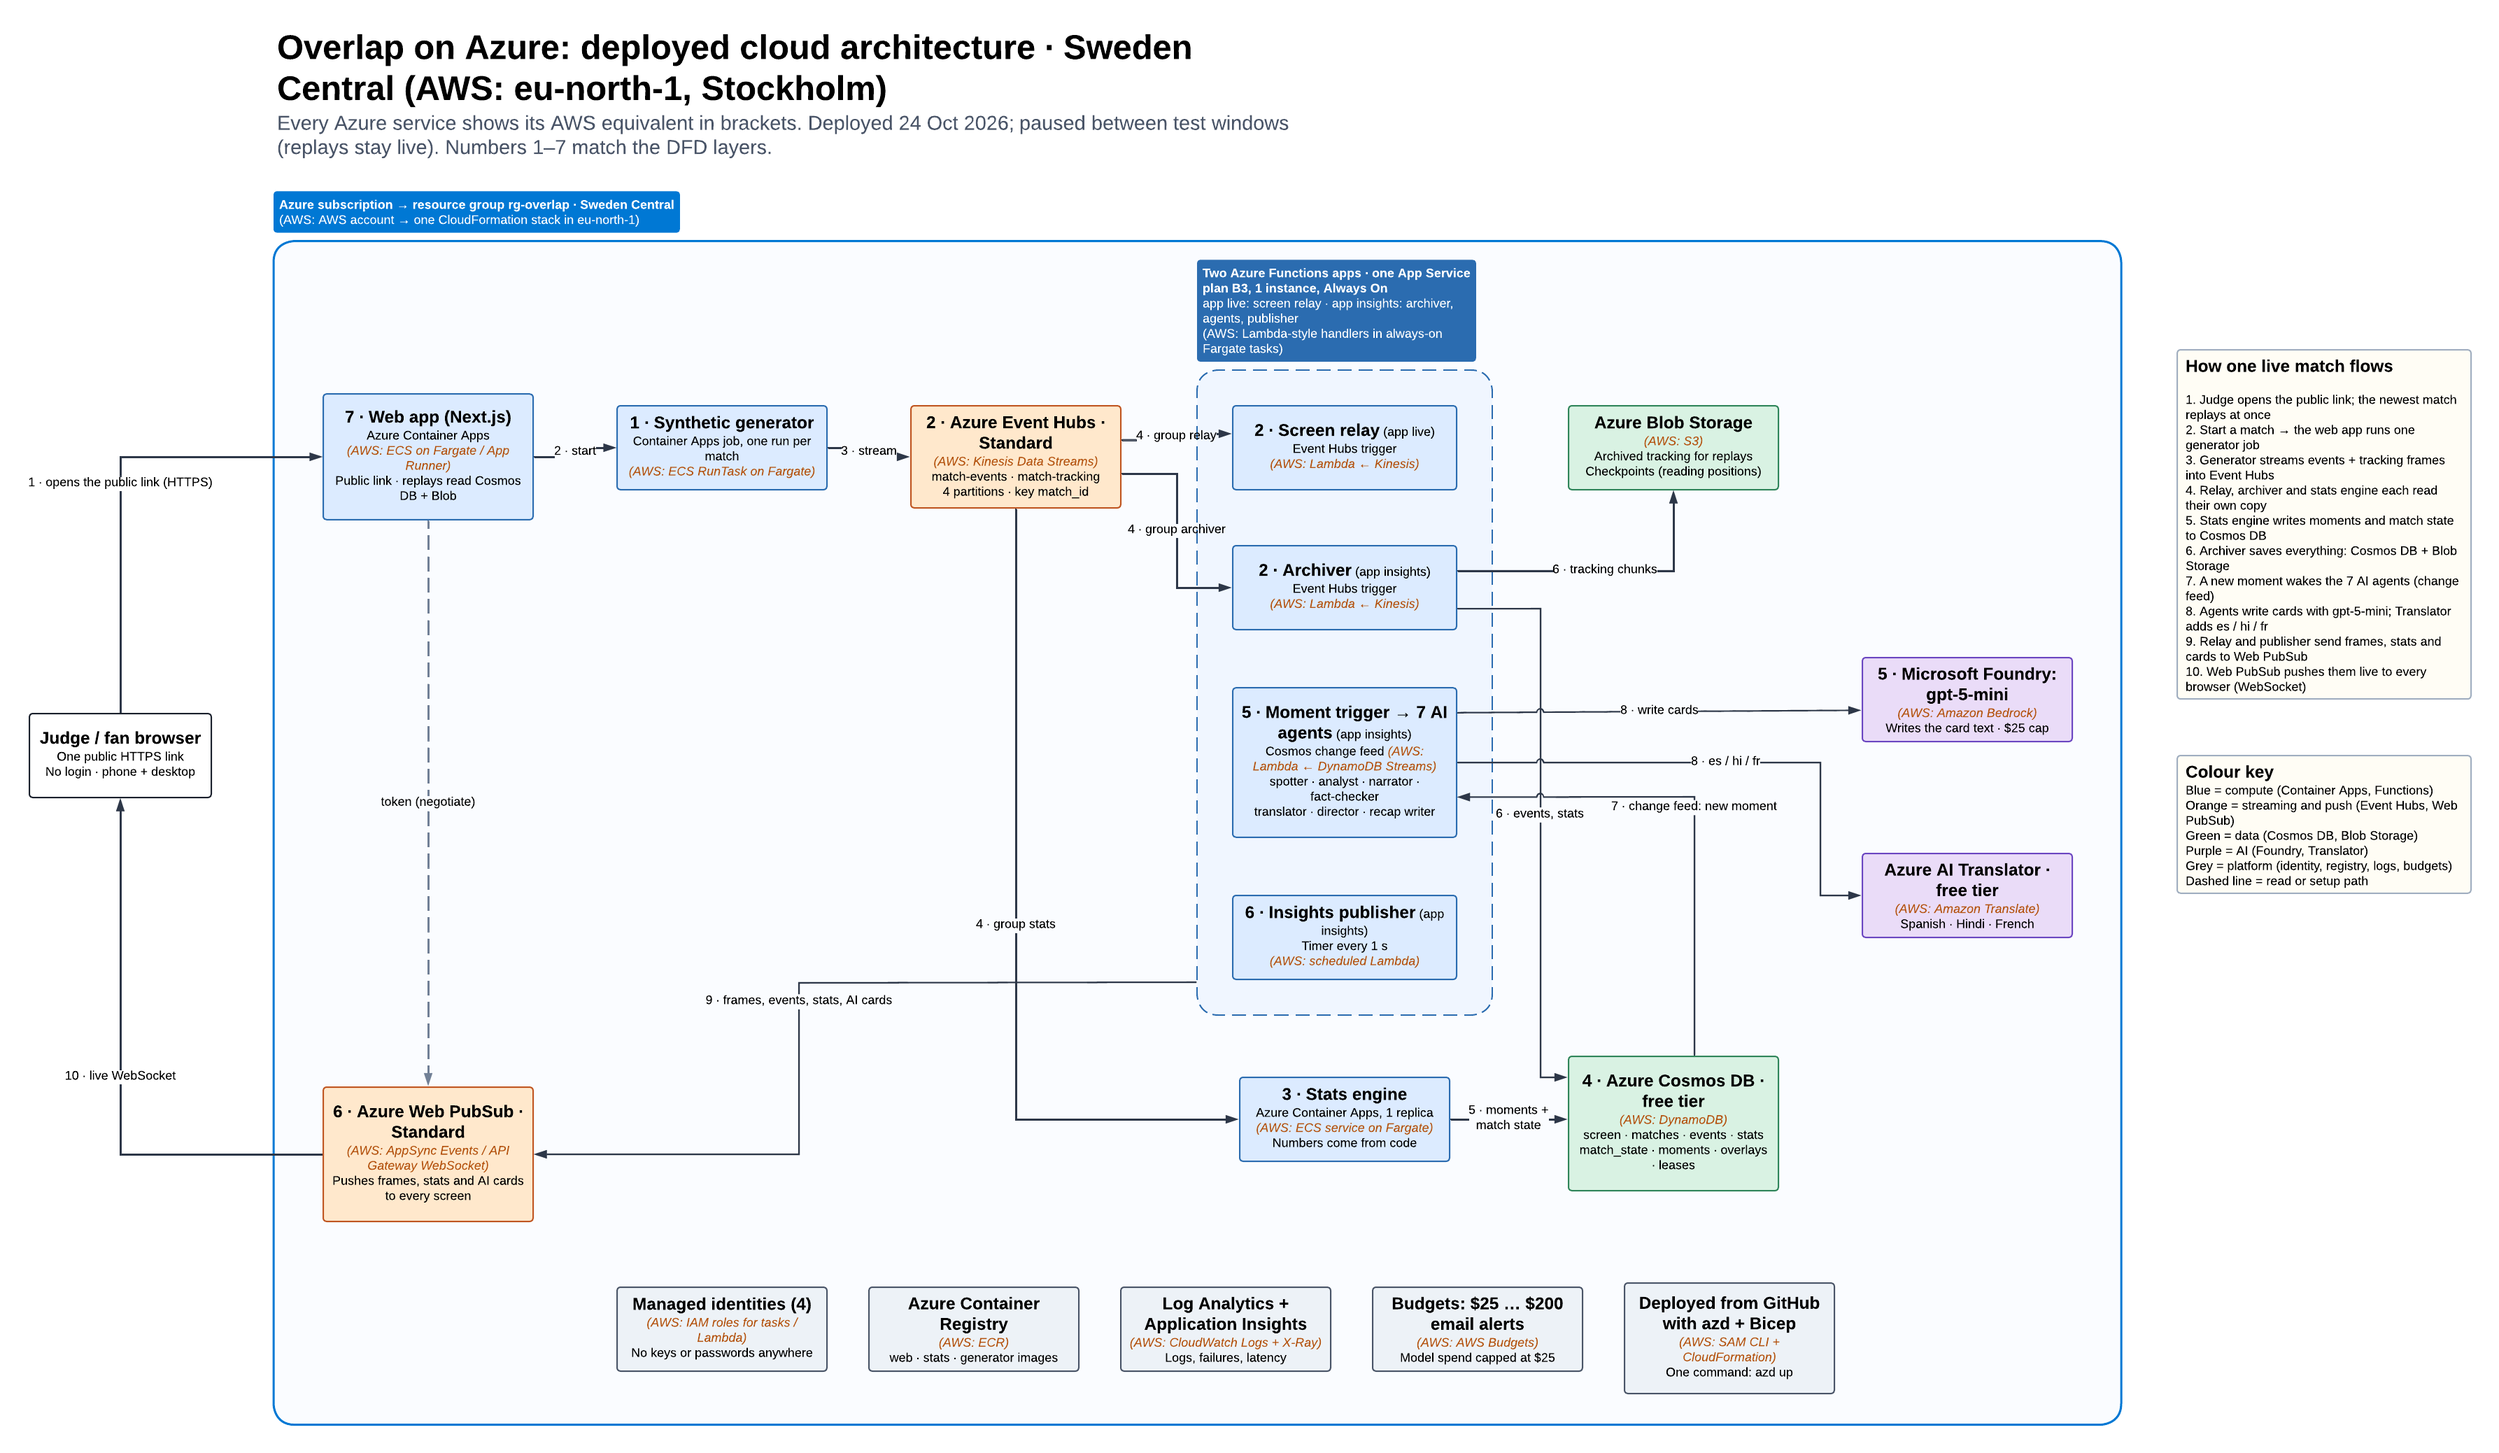
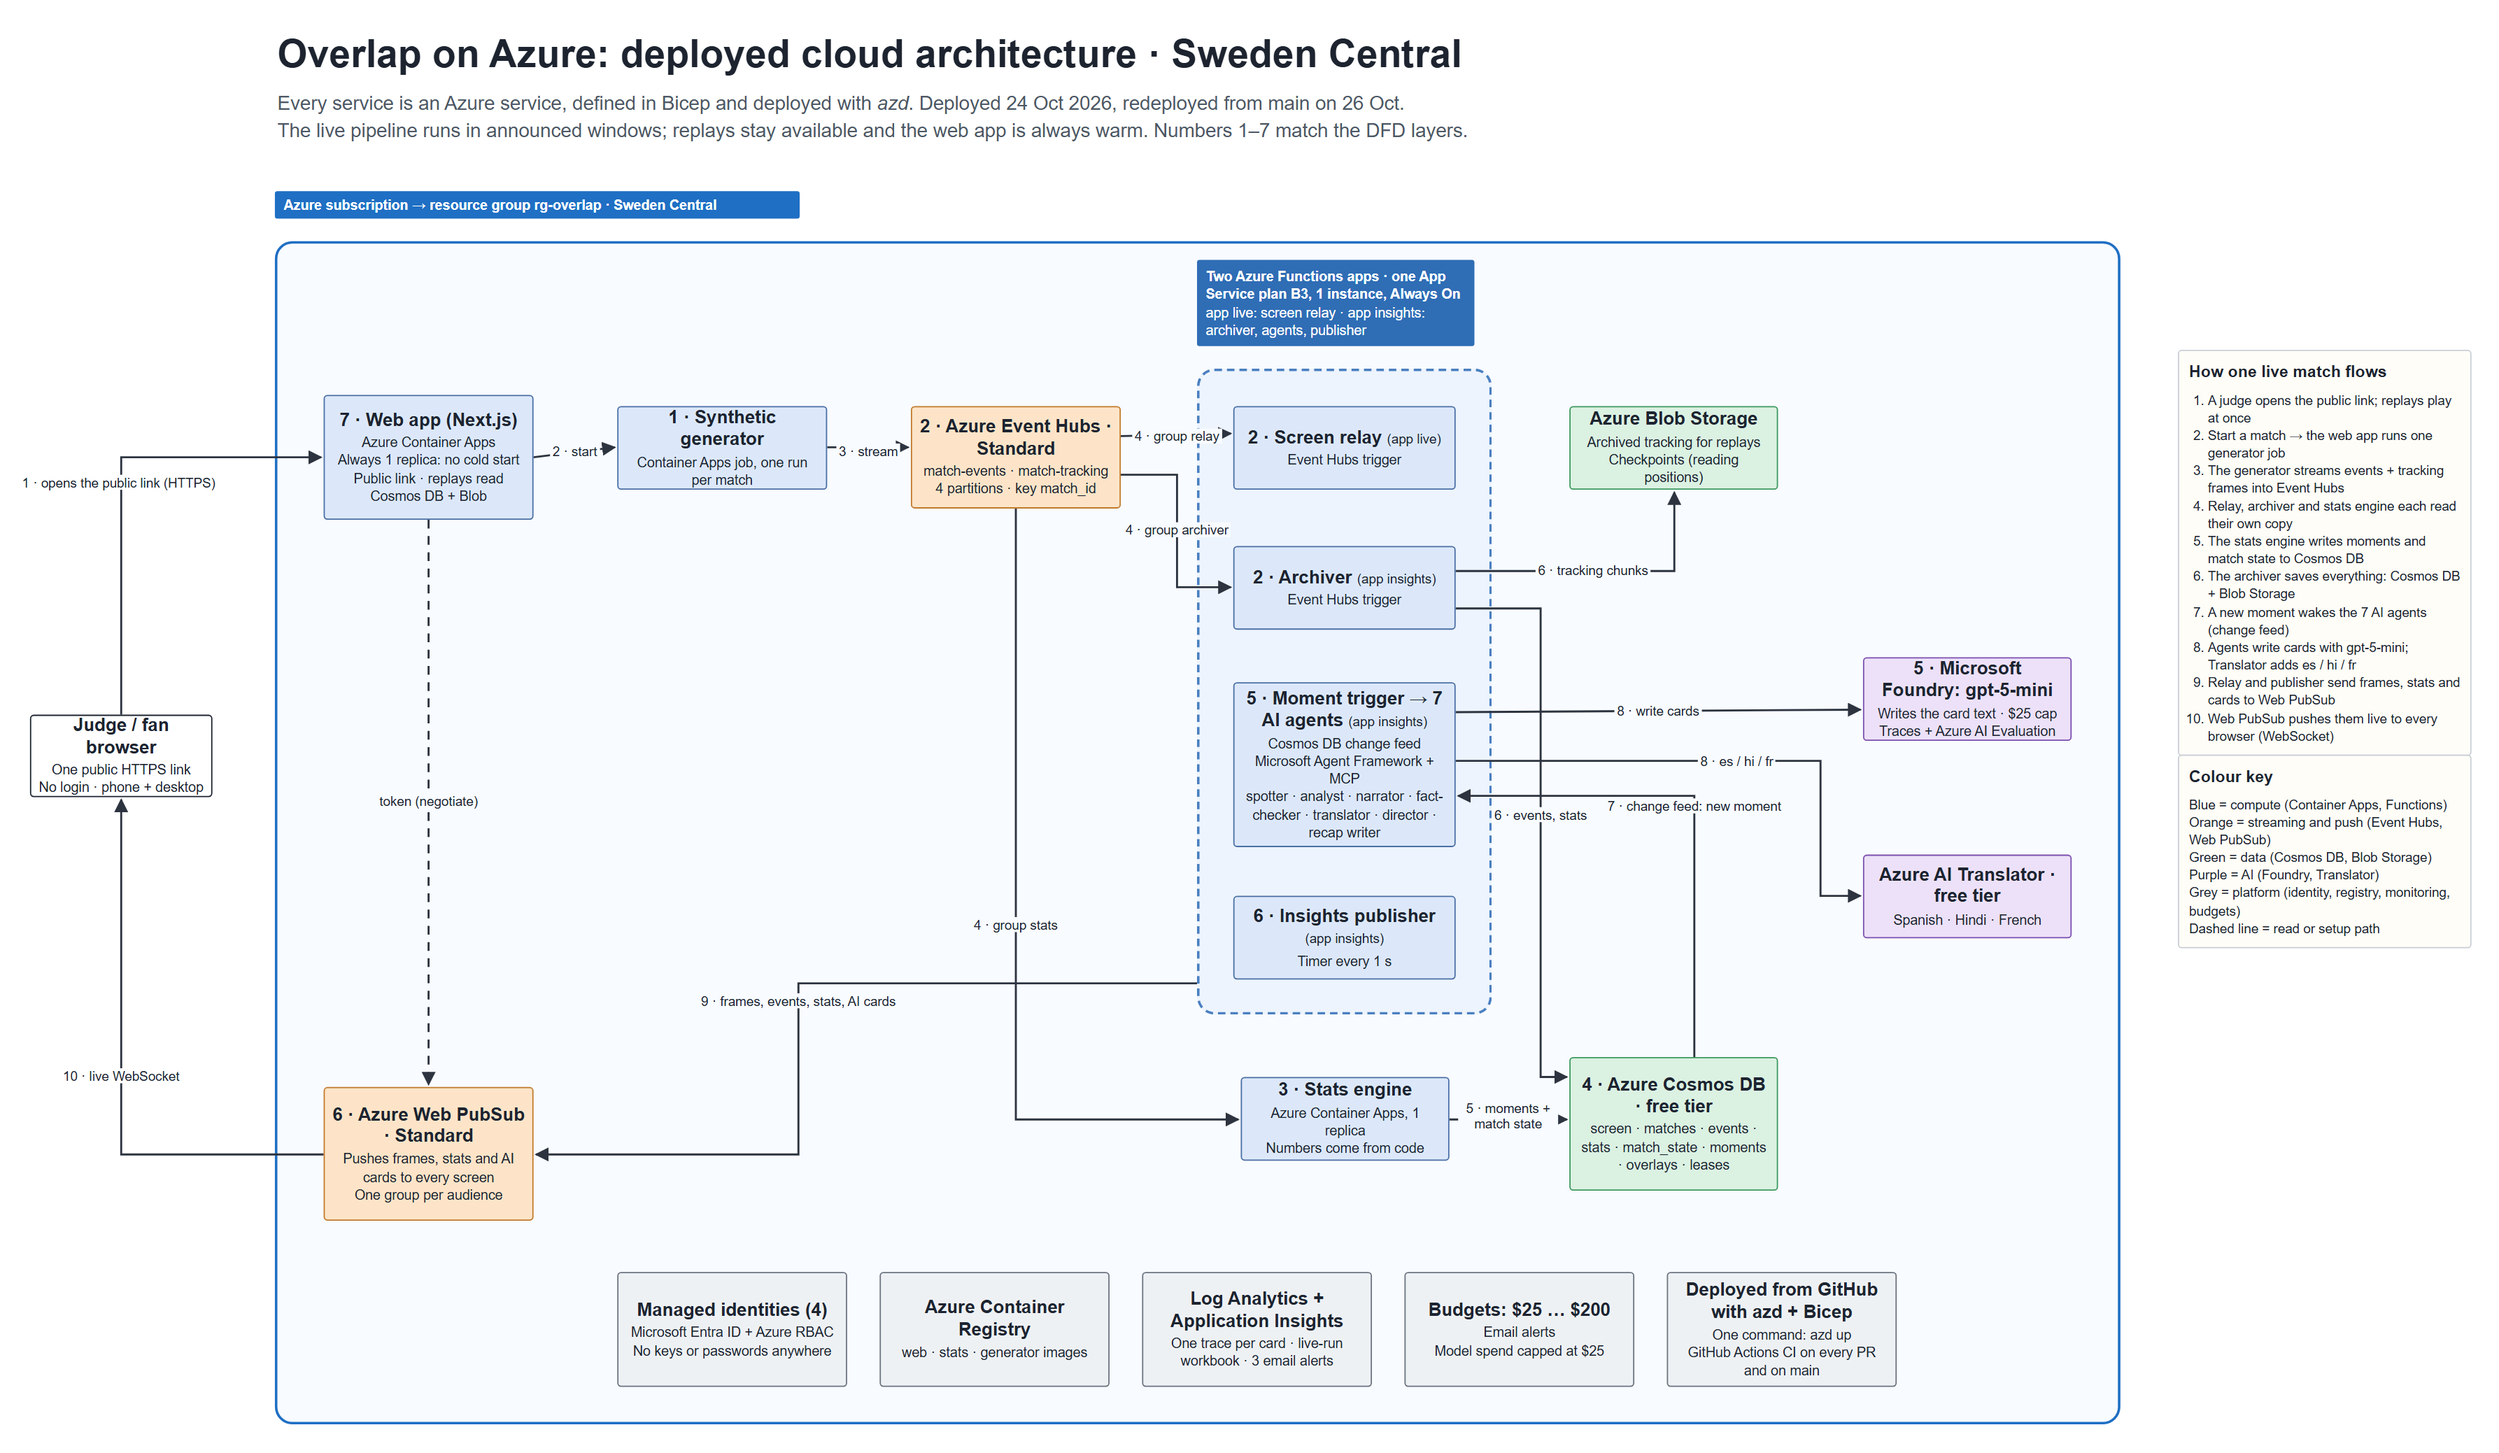
Show the Azure deployment without AWS equivalents
The deployment diagram is redrawn with Azure services only (same layout and
numbered flow, plus the always-warm web app, tracing, the live-run workbook and
alerts), and the README no longer mentions AWS equivalents.

diff --git a/docs/README.md b/docs/README.md
@@ -11,7 +11,7 @@
 | [`responsible-ai.md`](responsible-ai.md) | Synthetic data, the fact-checker and templates, honest labels, translation checks, no personal data, cost caps |
 | [`demo-script.md`](demo-script.md) | The 2-minute demo video, beat by beat |
 
-Diagrams, exported from the team's Lucid data flow diagrams: [Azure deployment](img/azure-deployment.png),
+Diagrams: [Azure deployment](img/azure-deployment.png) (as deployed on 26 Oct),
 [main data flow](img/main-dfd.png), [each layer opened up](img/expanded-dfd.png).
 
 ## Release notes

diff --git a/README.md b/README.md
@@ -40,7 +40,7 @@ and a card is labelled **AI · checked** only when a model wrote it and the fact
 
 ## Architecture
 
-**Deployed on Azure** (resource group `rg-overlap`, Sweden Central; AWS equivalents in brackets):
+**Deployed on Azure** (resource group `rg-overlap`, Sweden Central):
 
 ![Overlap on Azure: deployed cloud architecture](docs/img/azure-deployment.png)
 
